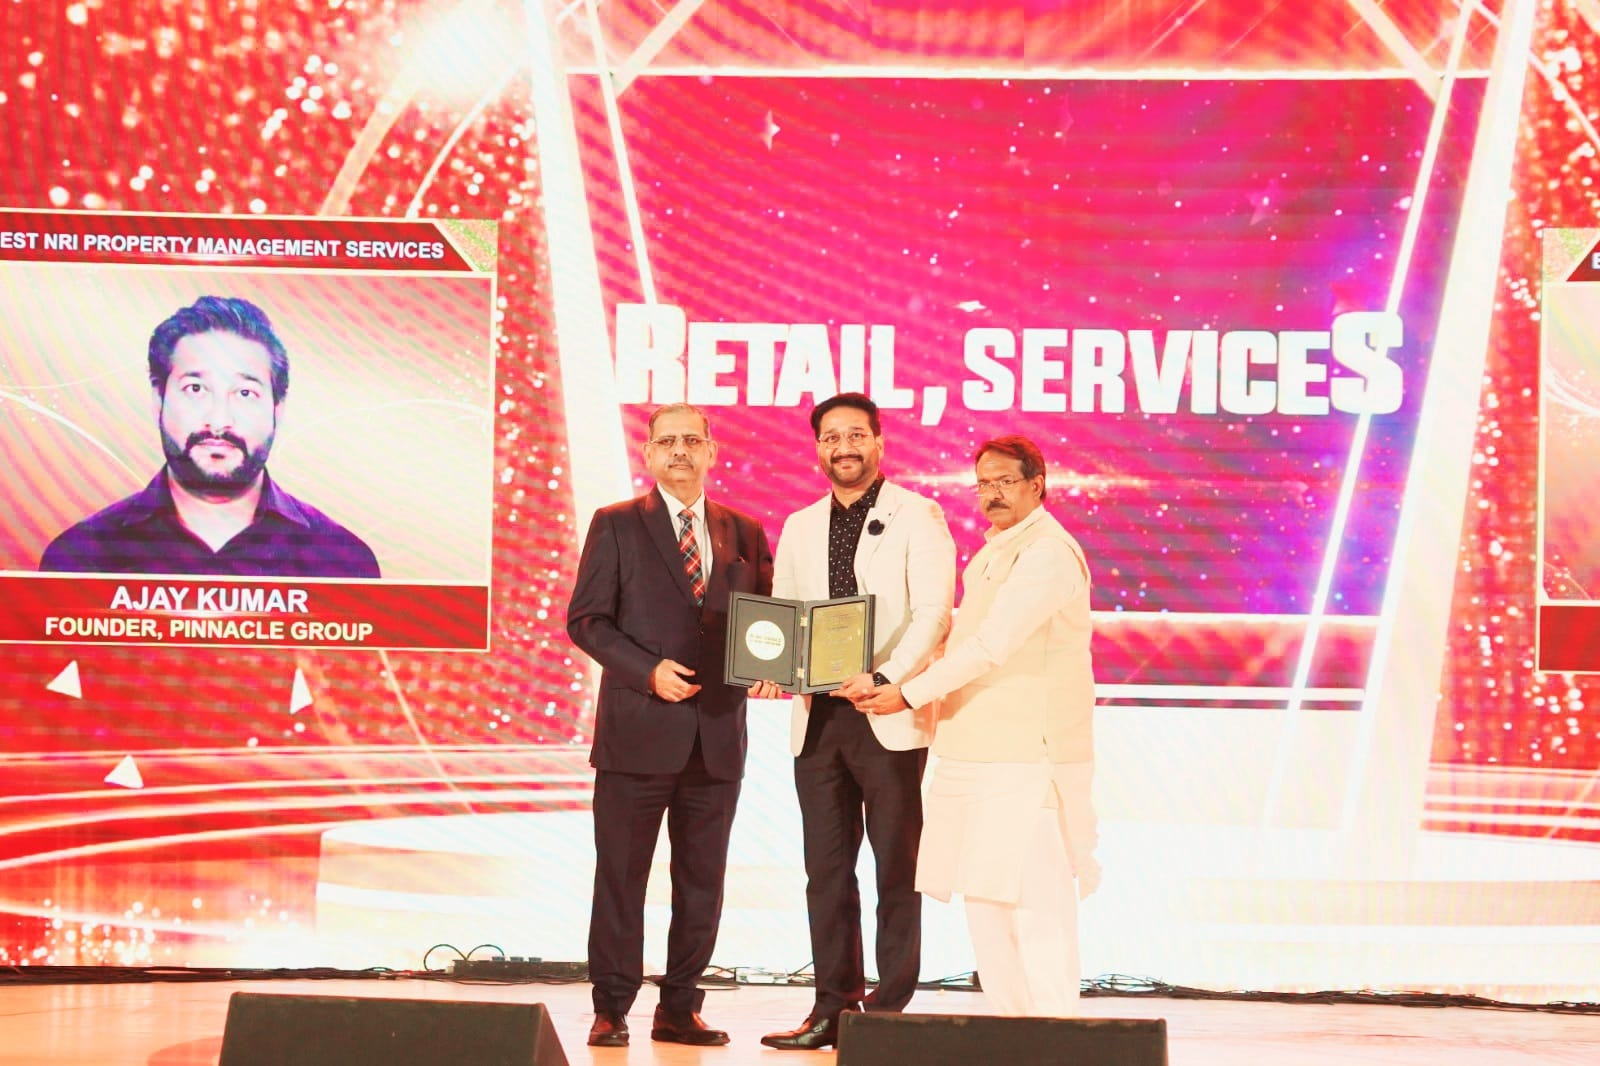
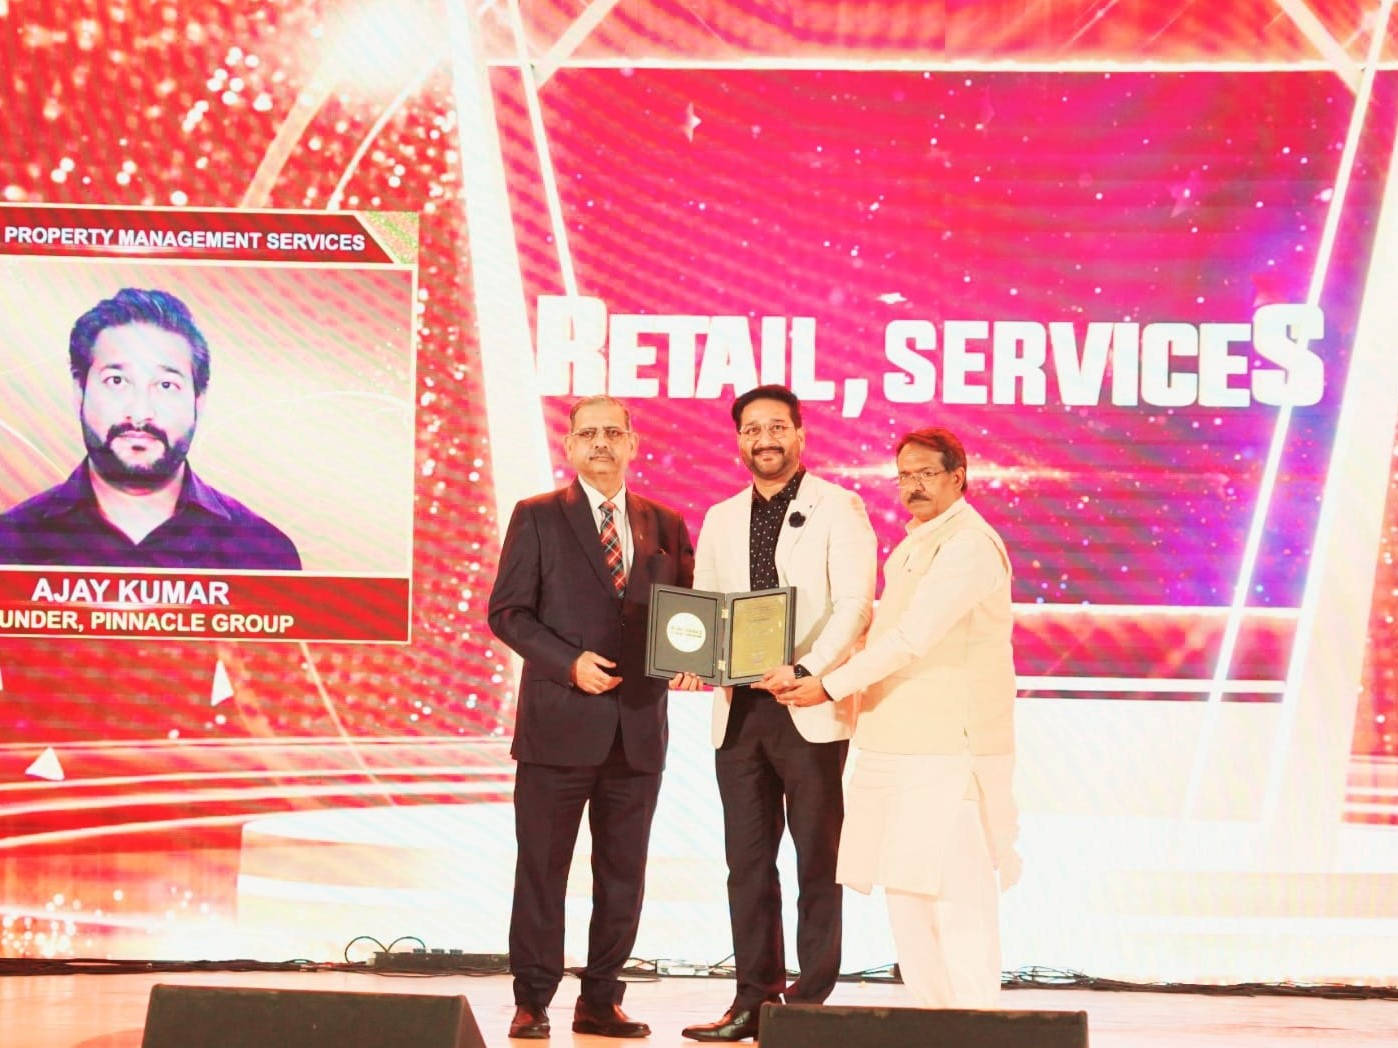
SEO Changes

diff --git a/src/Pages/Gallery.jsx b/src/Pages/Gallery.jsx
@@ -73,7 +73,7 @@ const Gallery = () => {
 
       <div className="flex flex-col lg:flex-row !m-5 !px-4 !py-6 bg-gray-200 rounded-xl">
         {/* Media Player */}
-        <div className="flex-1 bg-black rounded flex items-center justify-center border-4 border-black h-100 max-h-100 w-full max-w-[600px] !mx-auto lg:!mx-0">
+        <div className="flex-1 bg-black rounded flex items-center justify-center border-4 border-black h-120 max-h-120 w-full max-w-[600px] !mx-auto lg:!mx-0">
           {filteredMedia[currentIndex]?.type === "image" ? (
             <img
               src={filteredMedia[currentIndex].src}
